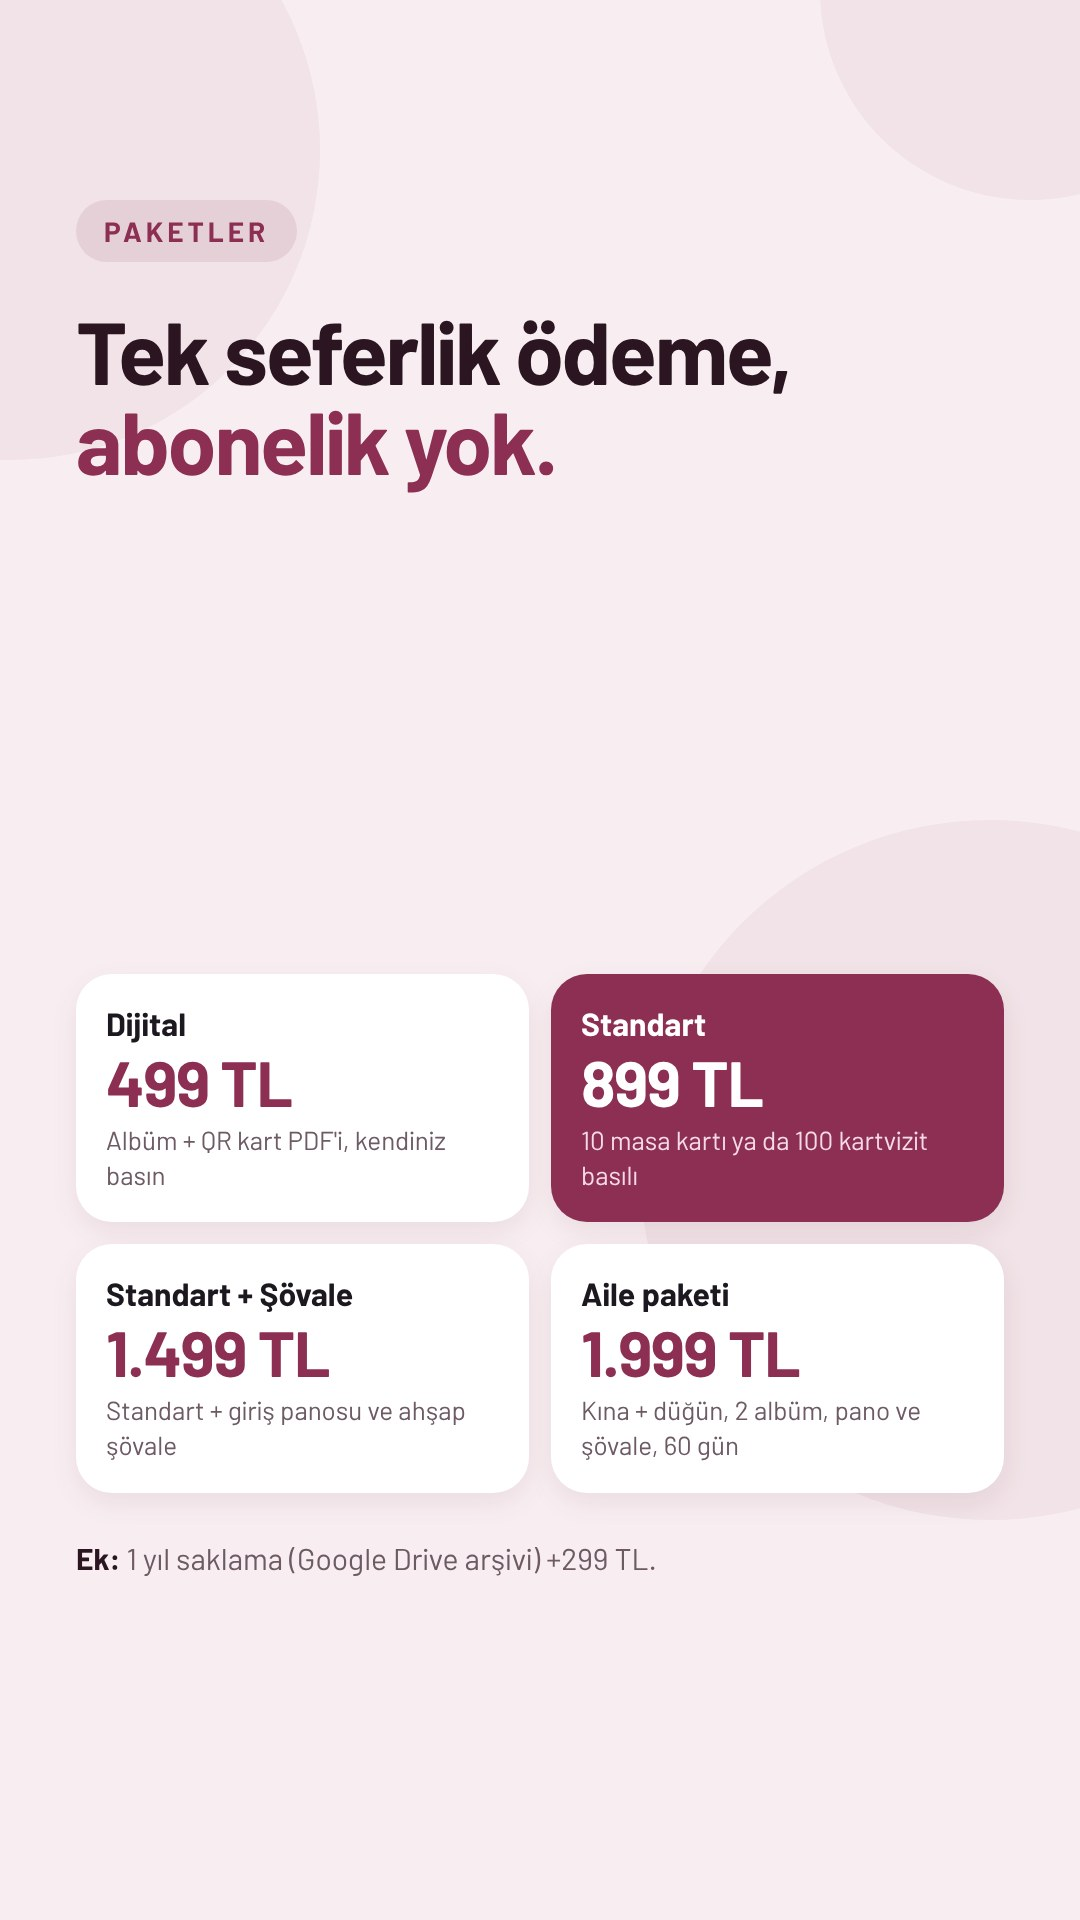
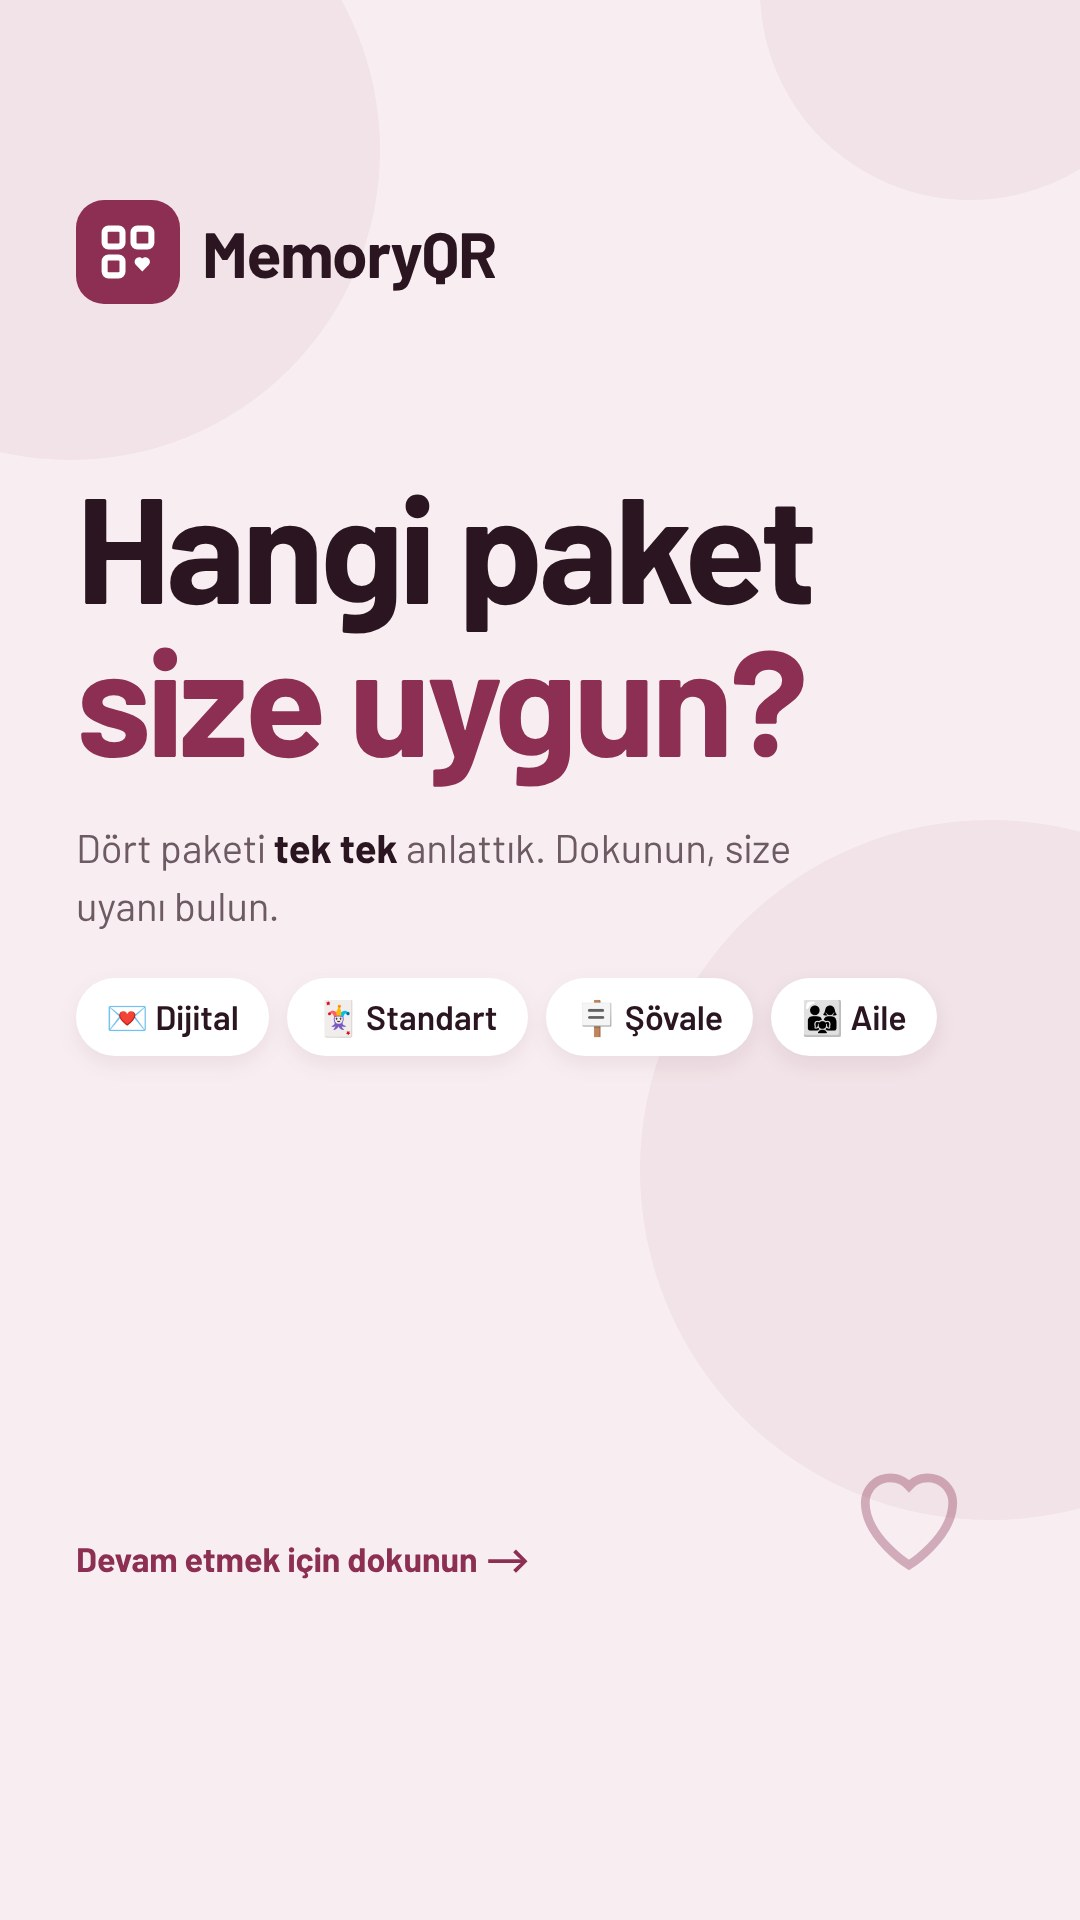
Öne çıkanlar · Paketler: görselli paket hikâyeleri (tam ekran)
Claude-Session: https://claude.ai/code/session_013LggcHU5H3775AuoLzGk1M

diff --git a/pazarlama/ig/onecikan.js b/pazarlama/ig/onecikan.js
@@ -26,18 +26,20 @@ const IG_ONECIKAN = [
       OC_CTA(["Bu kadar", "kolay."])]},
   {h: "Paketler", ad: "Paketler", kapak: {tpl: "m-oc", ikon: "hediye"},
     slides: [
-      {tpl: "m-paket", etiket: "Paketler", b: ["Tek seferlik ödeme,", "abonelik yok."], paketler: [
-        ["Dijital", "499 TL", "Albüm + QR kart PDF'i, kendiniz basın"],
-        ["Standart", "899 TL", "10 masa kartı ya da 100 kartvizit basılı", true],
-        ["Standart + Şövale", "1.499 TL", "Standart + giriş panosu ve ahşap şövale"],
-        ["Aile paketi", "1.999 TL", "Kına + düğün, 2 albüm, pano ve şövale, 60 gün"]],
-        metin: "**Ek:** 1 yıl saklama (Google Drive arşivi) +299 TL.", bant: "Bütçenize uygun | bir paket var."},
-      {tpl: "m-liste", etiket: "Her pakette", b: ["Hepsinde", "bunlar var."], maddeler: [
-        ["foto", "Fotoğraf ve video", "Orijinal kalitede, tek albümde."],
-        ["palet", "İsminizle tasarım", "60'tan fazla kart tasarımı."],
-        ["saat", "30 gün saklama", "Aile paketinde 60 gün."],
-        ["indir", "Tek tıkla indirme", "Hepsi ya da seçtikleriniz."]], bant: "Tek QR, | tek albüm."},
-      OC_CTA(["Paketinizi seçin,", "siparişi başlatın."])]},
+      {tpl: "m-kapak", b: ["Hangi paket", "size uygun?"], metin: "Dört paketi **tek tek** anlattık. Dokunun, size uyanı bulun.", chips: ["💌 Dijital", "🃏 Standart", "🪧 Şövale", "👨👩👧 Aile"], kaydir: "Devam etmek için dokunun"},
+      {tpl: "m-pk", etiket: "Paket 1", ad: "Dijital", fiyat: "499 TL", urun: "phone", tasarim: "lacivert_barok",
+        kime: "Kartları **kendiniz bastırmak** isteyenler için.",
+        maddeler: ["1 etkinlik, fotoğraf ve video albümü", "QR kart **PDF'i** (masa kartı, kartvizit, pano)", "30 gün saklama, **tek tıkla indirme**", "60'tan fazla tasarım, isminizle"]},
+      {tpl: "m-pk", etiket: "Paket 2", ad: "Standart", fiyat: "899 TL", foto: "tabak-kartvizit", rozet: "En çok tercih edilen",
+        kime: "Kartları **basılı ve hazır** isteyenler için.",
+        maddeler: ["1 etkinlik, fotoğraf ve video albümü", "**10 masa kartı** ya da **100 kartvizit**, basılı", "Kartvizit yatay, dikey ya da **katlanır**", "30 gün saklama, **tek tıkla indirme**"]},
+      {tpl: "m-pk", etiket: "Paket 3", ad: "Standart + Şövale", fiyat: "1.499 TL", foto: "sovale-pano",
+        kime: "Misafirleri **girişte karşılamak** isteyenler için.",
+        maddeler: ["1 etkinlik, fotoğraf ve video albümü", "**10 masa kartı** ya da **100 kartvizit**, basılı", "Girişe **QR'lı pano** ve **ahşap şövale**", "30 gün saklama, **tek tıkla indirme**"]},
+      {tpl: "m-pk", etiket: "Paket 4", ad: "Aile paketi", fiyat: "1.999 TL", urun: "aile", tasarim: "bordo_gul",
+        kime: "**Kına ve düğünü** birlikte yapanlar için.",
+        maddeler: ["Kına + düğün, **2 ayrı albüm**", "10 masa kartı ya da 100 kartvizit, basılı", "**50 × 70 cm** giriş panosu ve ahşap şövale", "**60 gün** saklama"]},
+      OC_CTA(["Paketinizi seçin,", "siparişi başlatın."], "Ek: 1 yıl saklama +299 TL · memoryqr.bulqr.com.tr")]},
   {h: "Sık sorulan sorular", ad: "SSS", kapak: {tpl: "m-oc", yazi: "?"},
     slides: [
       {tpl: "m-soru", soru: "Misafirler uygulama indirmeli mi?", cevap: "**Hayır.** Telefon kamerasıyla QR okutulur, sayfa tarayıcıda açılır. Adını yazar ve yükler.", bant: "Uygulama yok, | üyelik yok."},

diff --git a/pazarlama/ig/sablon.html b/pazarlama/ig/sablon.html
@@ -162,6 +162,10 @@ body{margin:0;background:#888;font-family:var(--body)}
 .m .pkl{display:grid;gap:14px;margin:0;padding:0;list-style:none}
 .m .pkl li{display:flex;gap:16px;align-items:flex-start;font:500 36px/1.3 var(--body);color:var(--mi)}
 .m .pkl li::before{content:"✓";flex:none;width:44px;height:44px;border-radius:50%;background:var(--mb);color:#fff;display:grid;place-items:center;font:700 26px var(--body);margin-top:-1px}
+.d.m .pkimg{height:700px}
+.d.m .pkh .mh{font-size:96px}
+.d.m .pkl li{font-size:40px}
+.d.m .pkbadge{top:200px}
 .m .pkbadge{position:absolute;right:76px;top:92px;background:var(--mb);color:#fff;font:700 28px var(--body);padding:12px 24px;border-radius:999px}
 </style>
 </head>
